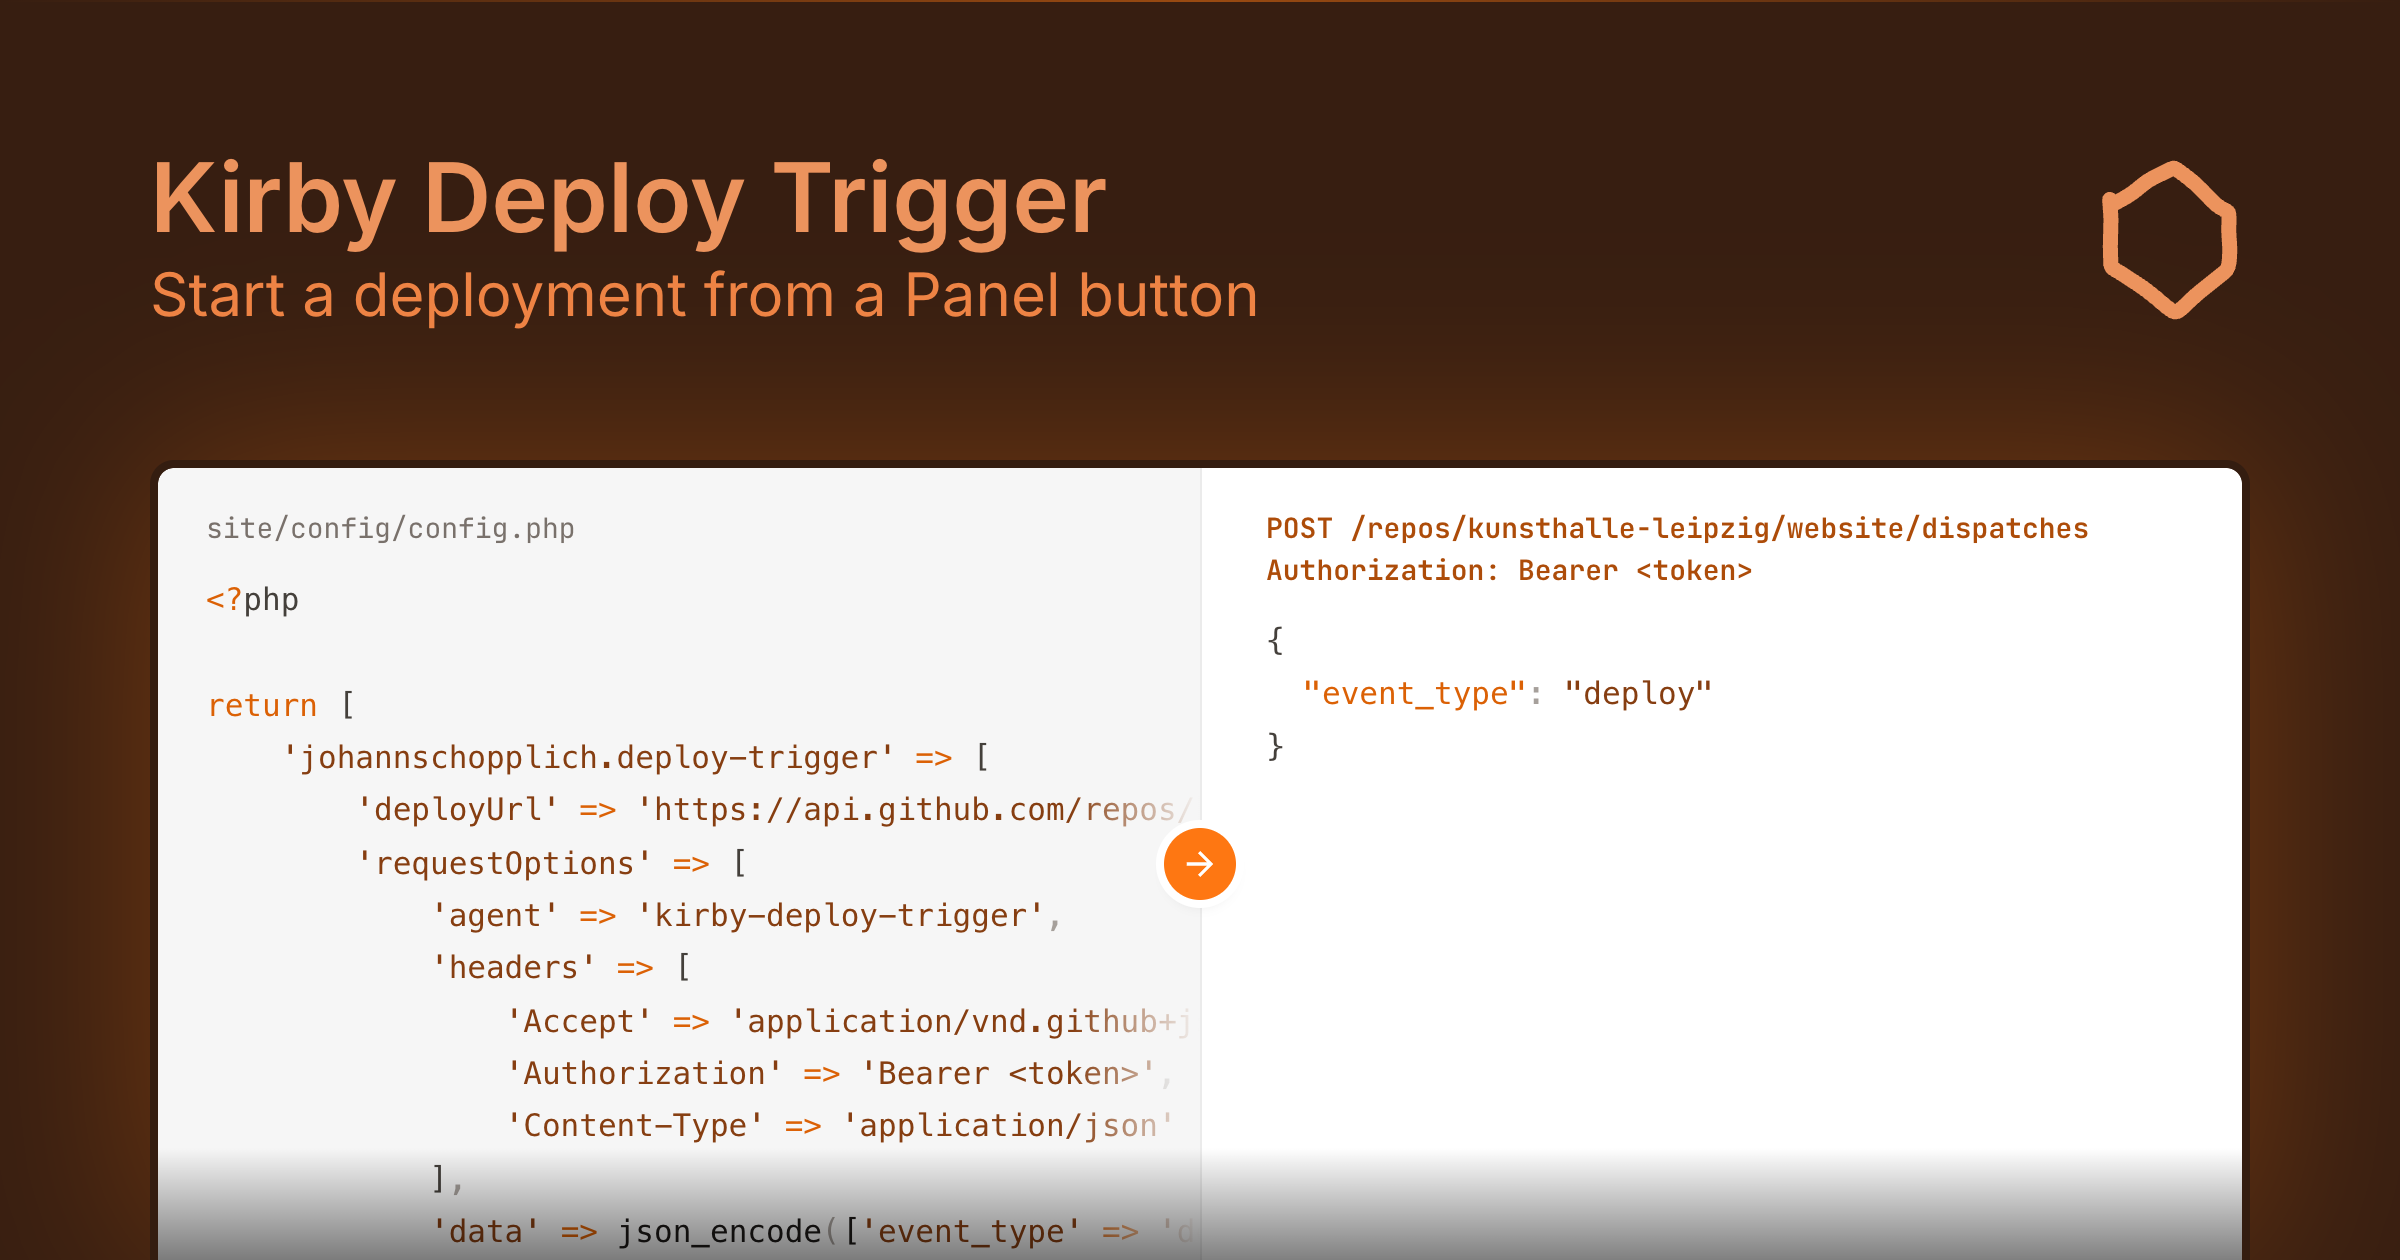
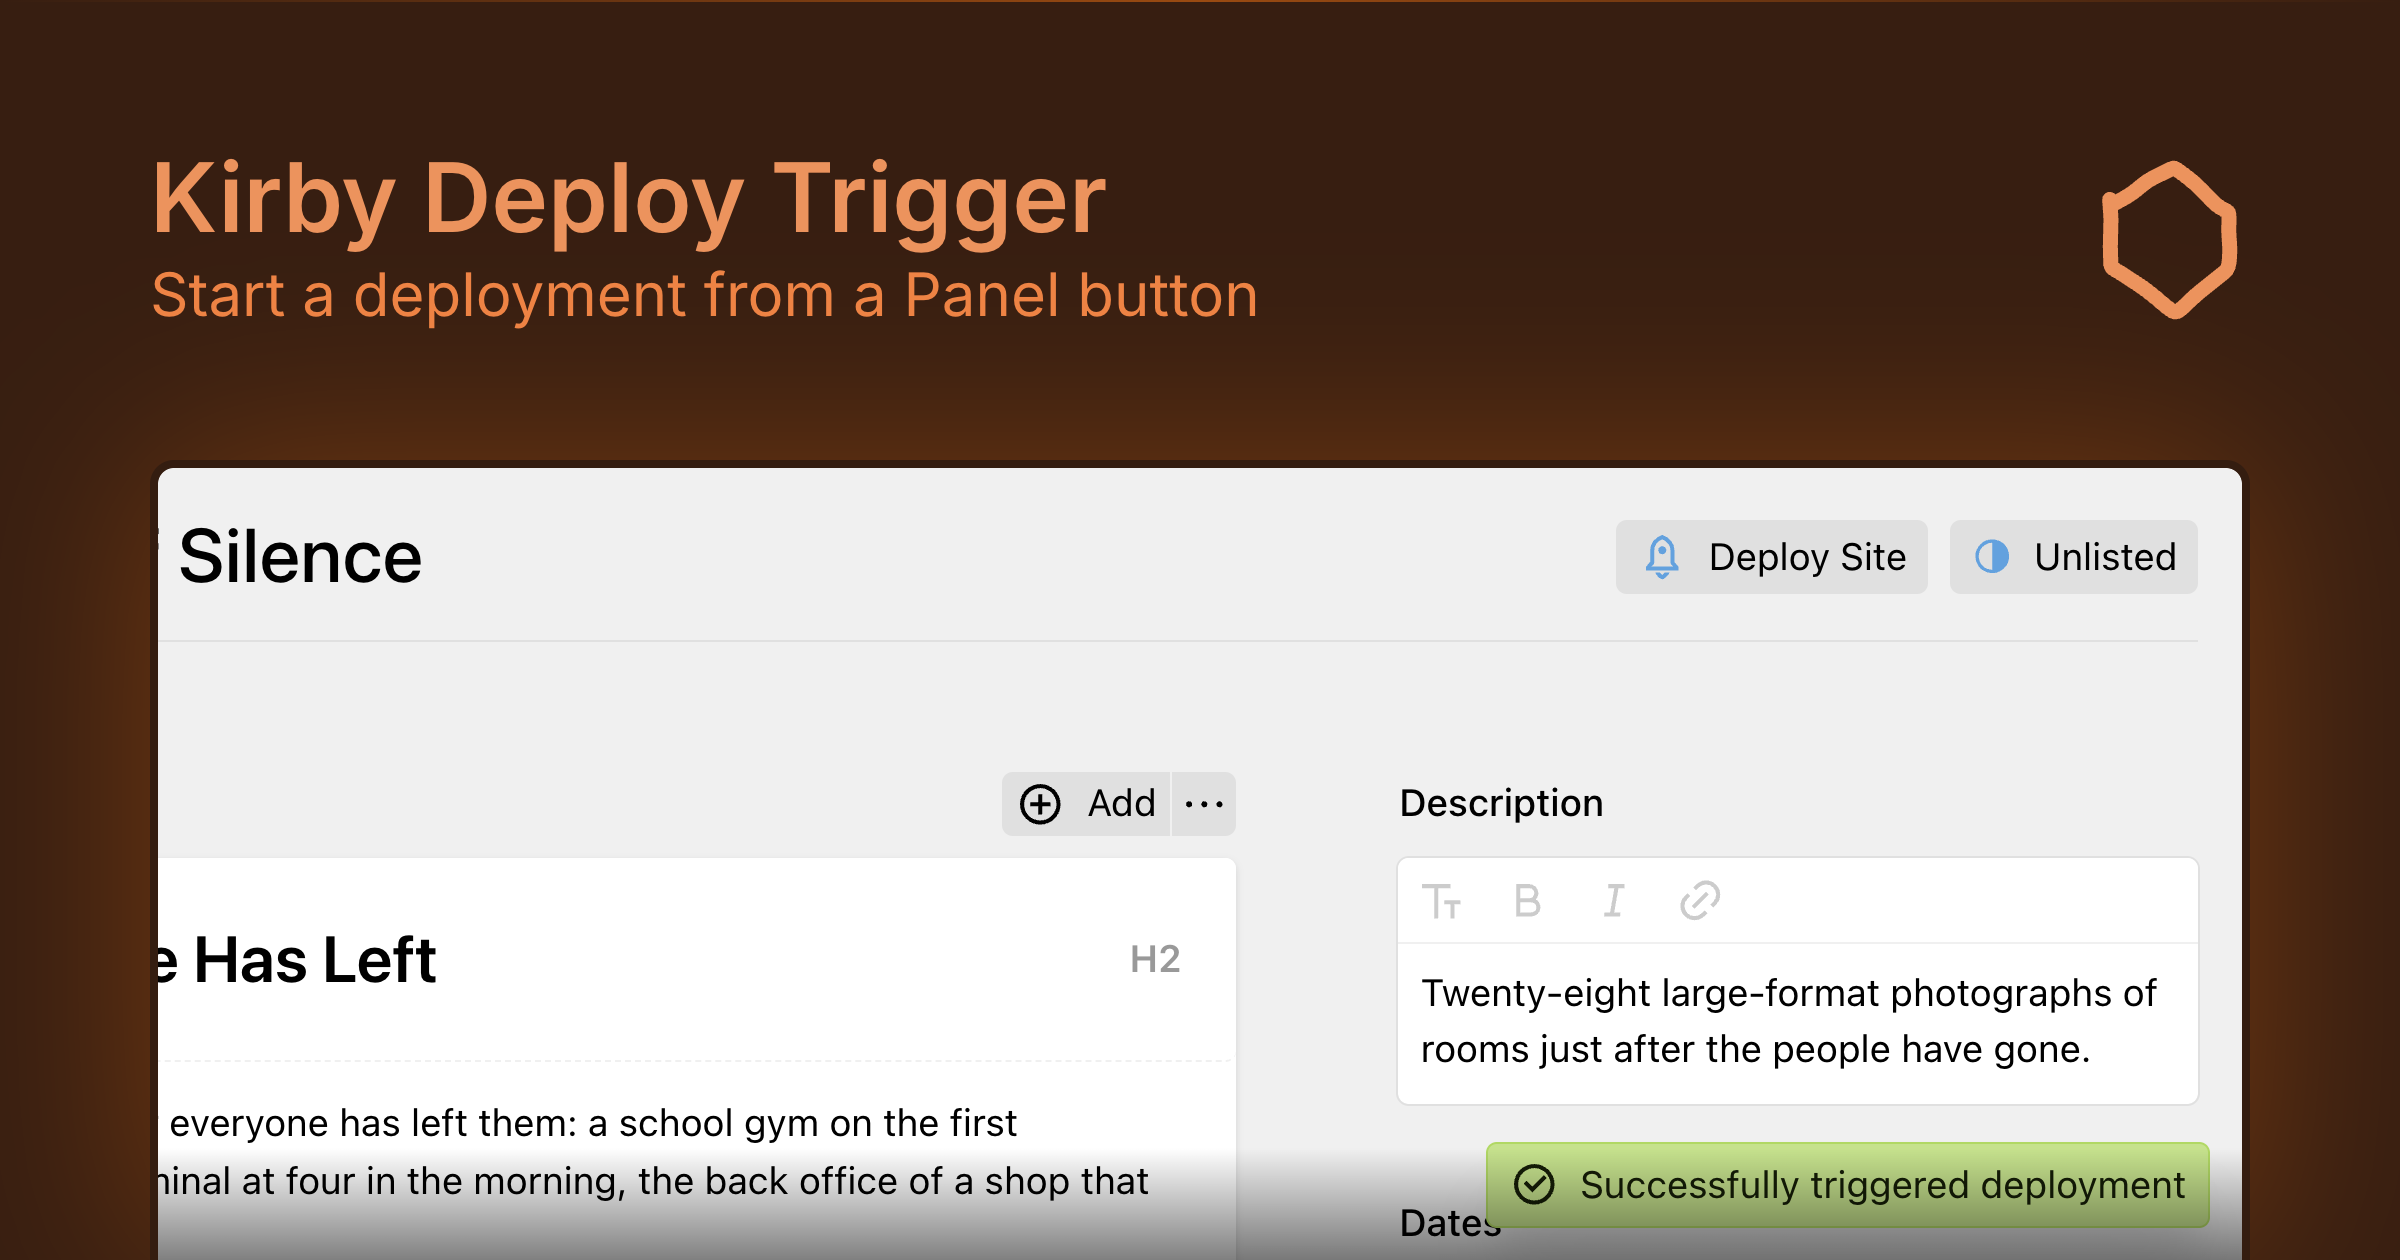
feat: add Kirby Deploy Trigger to the Exhibition with its own Scene

diff --git a/layers/kirby-panel/runtime/extensions.ts b/layers/kirby-panel/runtime/extensions.ts
@@ -11,6 +11,8 @@ export const extensions = {
     "content-translator-openai": `<path fill="currentColor" d="M20.562 10.188c.25-.688.313-1.376.25-2.063c-.062-.687-.312-1.375-.625-2c-.562-.937-1.375-1.687-2.312-2.125c-1-.437-2.063-.562-3.125-.312c-.5-.5-1.063-.938-1.688-1.25S11.687 2 11 2a5.17 5.17 0 0 0-3 .938c-.875.624-1.5 1.5-1.813 2.5c-.75.187-1.375.5-2 .875c-.562.437-1 1-1.375 1.562c-.562.938-.75 2-.625 3.063a5.44 5.44 0 0 0 1.25 2.874a4.7 4.7 0 0 0-.25 2.063c.063.688.313 1.375.625 2c.563.938 1.375 1.688 2.313 2.125c1 .438 2.062.563 3.125.313c.5.5 1.062.937 1.687 1.25S12.312 22 13 22a5.17 5.17 0 0 0 3-.937c.875-.625 1.5-1.5 1.812-2.5a4.54 4.54 0 0 0 1.938-.875c.562-.438 1.062-.938 1.375-1.563c.562-.937.75-2 .625-3.062c-.125-1.063-.5-2.063-1.188-2.876m-7.5 10.5c-1 0-1.75-.313-2.437-.875c0 0 .062-.063.125-.063l4-2.312a.5.5 0 0 0 .25-.25a.57.57 0 0 0 .062-.313V11.25l1.688 1v4.625a3.685 3.685 0 0 1-3.688 3.813M5 17.25c-.438-.75-.625-1.625-.438-2.5c0 0 .063.063.125.063l4 2.312a.56.56 0 0 0 .313.063c.125 0 .25 0 .312-.063l4.875-2.812v1.937l-4.062 2.375A3.7 3.7 0 0 1 7.312 19c-1-.25-1.812-.875-2.312-1.75M3.937 8.563a3.8 3.8 0 0 1 1.938-1.626v4.751c0 .124 0 .25.062.312a.5.5 0 0 0 .25.25l4.875 2.813l-1.687 1l-4-2.313a3.7 3.7 0 0 1-1.75-2.25c-.25-.937-.188-2.062.312-2.937M17.75 11.75l-4.875-2.812l1.687-1l4 2.312c.625.375 1.125.875 1.438 1.5s.5 1.313.437 2.063a3.7 3.7 0 0 1-.75 1.937c-.437.563-1 1-1.687 1.25v-4.75c0-.125 0-.25-.063-.312c0 0-.062-.126-.187-.188m1.687-2.5s-.062-.062-.125-.062l-4-2.313c-.125-.062-.187-.062-.312-.062s-.25 0-.313.062L9.812 9.688V7.75l4.063-2.375c.625-.375 1.312-.5 2.062-.5c.688 0 1.375.25 2 .688c.563.437 1.063 1 1.313 1.625s.312 1.375.187 2.062m-10.5 3.5l-1.687-1V7.063c0-.688.187-1.438.562-2C8.187 4.438 8.75 4 9.375 3.688a3.37 3.37 0 0 1 2.062-.313c.688.063 1.375.375 1.938.813c0 0-.063.062-.125.062l-4 2.313a.5.5 0 0 0-.25.25c-.063.125-.063.187-.063.312zm.875-2L12 9.5l2.187 1.25v2.5L12 14.5l-2.188-1.25z"/>`,
     // i-ri:seo-line
     "seo-audit-analyze": `<path fill="currentColor" d="M8 3a7 7 0 0 0 0 14h1.07a7.06 7.06 0 0 1 0-2H8A5 5 0 0 1 8 5h8a5 5 0 0 1 4.9 6a7.021 7.021 0 0 1 1.426 2A7 7 0 0 0 16 3zm8 10a3 3 0 1 0 0 6a3 3 0 0 0 0-6m-5 3a5 5 0 1 1 9.172 2.757l2.535 2.536l-1.414 1.414l-2.536-2.535A5 5 0 0 1 11 16"/>`,
+    // i-ri:rocket-2-line
+    "deploy-trigger-rocket": `<path fill="currentColor" d="M15.502 20.005A6.52 6.52 0 0 1 12 23.507a6.52 6.52 0 0 1-3.502-3.502h2.26c.326.488.747.912 1.242 1.243c.495-.33.916-.755 1.242-1.243zM18 14.81l2 2.268v1.927H4v-1.927l2-2.268V9.005c0-3.483 2.504-6.447 6-7.545c3.496 1.098 6 4.062 6 7.545zm-.73 2.195L16 15.565v-6.56c0-2.318-1.57-4.43-4-5.421c-2.43.99-4 3.103-4 5.42v6.561l-1.27 1.44zm-5.27-6a2 2 0 1 1 0-4a2 2 0 0 1 0 4"/>`,
     // i-ri:restart-line
     "live-preview-restart": `<path fill="currentColor" d="M18.537 19.567A9.961 9.961 0 0 1 12 22C6.477 22 2 17.523 2 12S6.477 2 12 2s10 4.477 10 10c0 2.136-.67 4.116-1.81 5.74L17 12h3a8 8 0 1 0-2.46 5.772z"/>`,
   },

diff --git a/layers/kirby-panel/modules/kirby-panel/index.ts b/layers/kirby-panel/modules/kirby-panel/index.ts
@@ -36,10 +36,10 @@ export default defineNuxtModule({
 
     nuxt.options.alias["#kirby-panel"] = srcDir;
     nuxt.options.alias["#panel-mock"] = resolve("../../runtime");
-    for (const { id, dir, barrel } of plugins) {
+    for (const { id, barrel, css } of plugins) {
       nuxt.options.alias[`#kirby-plugin/${id}`] = barrel;
       // The prerender inlines only CSS a `.vue` file or the entry imports.
-      nuxt.options.css.push(`${dir}/index.css`);
+      if (css) nuxt.options.css.push(css);
     }
 
     addVitePlugin(kirbyAliasPlugin(srcDir));
@@ -113,19 +113,23 @@ async function resolvePlugins(
         : resolve(`../../plugins/${id}`);
       const barrel = `${dir}/src/panel/site.ts`;
 
-      for (const file of [barrel, `${dir}/index.css`]) {
-        try {
-          await access(file);
-        } catch {
-          throw new Error(
-            isLocal
-              ? `\`${file}\` is missing. Check out a branch of kirby-${id} that has it, or drop "${id}" from \`${LOCAL_PLUGINS_ENV}\`.`
-              : `\`${file}\` is missing. Run \`pnpm kirby-panel:fetch\`, or pin a commit of kirby-${id} in \`plugins.json\` that has it.`,
-          );
-        }
+      try {
+        await access(barrel);
+      } catch {
+        throw new Error(
+          isLocal
+            ? `\`${barrel}\` is missing. Check out a branch of kirby-${id} that has it, or drop "${id}" from \`${LOCAL_PLUGINS_ENV}\`.`
+            : `\`${barrel}\` is missing. Run \`pnpm kirby-panel:fetch\`, or pin a commit of kirby-${id} in \`plugins.json\` that has it.`,
+        );
       }
 
-      return { id, dir, barrel, isLocal };
+      // A plugin without styles builds no `index.css`.
+      const css = await access(`${dir}/index.css`).then(
+        () => `${dir}/index.css`,
+        () => undefined,
+      );
+
+      return { id, dir, barrel, css, isLocal };
     }),
   );
 }

diff --git a/app/utils/social-card-code.ts b/app/utils/social-card-code.ts
@@ -2,7 +2,6 @@ import type { ExhibitionProductId } from "#shared/exhibition";
 import type { ProductId } from "#shared/products";
 
 const exhibitionRequest = `GET ${EXHIBITION_URL.pathname}`;
-const exhibitionDispatchPath = "/repos/kunsthalle-leipzig/website/dispatches";
 
 export interface SocialCardSnippet {
   label: string;
@@ -66,33 +65,6 @@ echo \\Kirby\\Data\\Json::encode([
 <meta content="${EXHIBITION_PAGE.title}" name="twitter:title">
 <meta content="${EXHIBITION_PAGE.description}" name="twitter:description">
 <link href="${EXHIBITION_URL.origin}/dist/assets/main-DiwrgTda.css" rel="stylesheet"><script src="${EXHIBITION_URL.origin}/dist/assets/main-BmA3xV9q.js" type="module"></script>`,
-    },
-  },
-  "deploy-trigger": {
-    source: {
-      label: "site/config/config.php",
-      language: "php",
-      code: `<?php
-
-return [
-    'johannschopplich.deploy-trigger' => [
-        'deployUrl' => 'https://api.github.com${exhibitionDispatchPath}',
-        'requestOptions' => [
-            'agent' => 'kirby-deploy-trigger',
-            'headers' => [
-                'Accept' => 'application/vnd.github+json',
-                'Authorization' => 'Bearer <token>',
-                'Content-Type' => 'application/json'
-            ],
-            'data' => json_encode(['event_type' => 'deploy'])
-        ]
-    ]
-];`,
-    },
-    result: {
-      label: `POST ${exhibitionDispatchPath}\nAuthorization: Bearer <token>`,
-      language: "json",
-      code: JSON.stringify({ event_type: "deploy" }, undefined, 2),
     },
   },
 };

diff --git a/app/components/Product/DeployTrigger/Scene.vue b/app/components/Product/DeployTrigger/Scene.vue
@@ -1,0 +1,42 @@
+<script setup lang="ts">
+import { translate } from "#panel-mock/translate";
+
+const DEPLOY_DURATION = 1500;
+
+const SUCCESS_NOTIFICATION: PanelNotificationProps = {
+  text: translate("johannschopplich.deploy-trigger.success"),
+};
+
+const isInert = inject(panelMockInertKey, false);
+const reducedMotion = usePreferredReducedMotion();
+const page = useExhibitionPage();
+const { notification, open, close } = usePanelNotification();
+const { isPending, start } = useTimeoutFn(notifySuccess, DEPLOY_DURATION, {
+  immediate: false,
+});
+
+const viewButton = computed<PanelViewButton>(() => ({
+  plugin: "deploy-trigger",
+  isDeploying: isPending.value,
+  click: deploy,
+}));
+
+function deploy() {
+  if (reducedMotion.value === "reduce") notifySuccess();
+  else start();
+}
+
+function notifySuccess() {
+  open(SUCCESS_NOTIFICATION);
+}
+</script>
+
+<template>
+  <ExhibitionScene
+    :page="page"
+    :view-button="viewButton"
+    :notification="isInert ? SUCCESS_NOTIFICATION : notification"
+    :crop="isInert ? undefined : 'hero'"
+    @close-notification="close"
+  />
+</template>

diff --git a/layers/kirby-panel/runtime/translate.ts b/layers/kirby-panel/runtime/translate.ts
@@ -1,6 +1,7 @@
 import string from "#kirby-panel/helpers/string";
 import { translations as contentTranslatorTranslations } from "#kirby-plugin/content-translator";
 import { translations as copilotTranslations } from "#kirby-plugin/copilot";
+import { translations as deployTriggerTranslations } from "#kirby-plugin/deploy-trigger";
 import { translations as seoAuditTranslations } from "#kirby-plugin/seo-audit";
 import { translations as serpPreviewTranslations } from "#kirby-plugin/serp-preview";
 import kirbyTranslations from "../kirby/i18n/translations/en.json";
@@ -9,6 +10,7 @@ const translations: Record<string, string> = {
   ...kirbyTranslations,
   ...contentTranslatorTranslations,
   ...copilotTranslations,
+  ...deployTriggerTranslations,
   ...seoAuditTranslations,
   ...serpPreviewTranslations,
 };

diff --git a/layers/kirby-panel/app/types/kirby.ts b/layers/kirby-panel/app/types/kirby.ts
@@ -1,6 +1,7 @@
 import type {
   PanelContentTranslatorDropdownButtonProps,
   PanelCopilotButtonProps,
+  PanelDeployTriggerButtonProps,
   PanelSeoAuditButtonProps,
 } from "./plugins";
 
@@ -38,7 +39,8 @@ export type PanelPluginViewButton =
   | ({
       plugin: "content-translator";
     } & PanelContentTranslatorDropdownButtonProps)
-  | ({ plugin: "seo-audit" } & PanelSeoAuditButtonProps);
+  | ({ plugin: "seo-audit" } & PanelSeoAuditButtonProps)
+  | ({ plugin: "deploy-trigger" } & PanelDeployTriggerButtonProps);
 
 // `plugin?: never` keeps Kirby's own button props off a plugin's entry.
 export type PanelViewButton =

diff --git a/app/components/SocialCard.vue b/app/components/SocialCard.vue
@@ -132,6 +132,14 @@ const isWide = computed(() => props.format === "og");
   position: static;
 }
 
+/* Anchored right, so the header's view buttons stay in the frame. */
+.social-card .panel-mock:has(.panel-deploy-trigger-button) {
+  --social-card-zoom: 1.35;
+  zoom: var(--social-card-zoom);
+  width: calc(100% * var(--social-card-zoom));
+  margin-inline-start: calc(100% - 100% * var(--social-card-zoom));
+}
+
 .social-card .k-panel:has(> .k-panel-minimap) > .panel-mock-stage {
   filter: blur(3px);
   opacity: 0.85;

diff --git a/layers/kirby-panel/app/components/global/PanelDeployTriggerButton.vue b/layers/kirby-panel/app/components/global/PanelDeployTriggerButton.vue
@@ -1,0 +1,16 @@
+<script setup lang="ts">
+import type { PanelDeployTriggerButtonProps } from "../../types/plugins";
+import { DeployTriggerButtonBody } from "#kirby-plugin/deploy-trigger";
+import { translate } from "#panel-mock/translate";
+
+defineProps<PanelDeployTriggerButtonProps>();
+</script>
+
+<template>
+  <DeployTriggerButtonBody
+    :label="translate('johannschopplich.deploy-trigger.label')"
+    :is-deploying="isDeploying"
+    class="panel-deploy-trigger-button"
+    @click="click?.()"
+  />
+</template>

diff --git a/app/utils/exhibition-scenes.ts b/app/utils/exhibition-scenes.ts
@@ -2,6 +2,7 @@ import type { Component } from "vue";
 import type { ExhibitionProductId } from "#shared/exhibition";
 import {
   ProductCopilotScene,
+  ProductDeployTriggerScene,
   ProductLivePreviewScene,
   ProductMinimapScene,
   ProductSeoAuditScene,
@@ -16,4 +17,5 @@ export const EXHIBITION_SCENES: Record<ExhibitionProductId, Component> = {
   "serp-preview": ProductSerpPreviewScene,
   minimap: ProductMinimapScene,
   "live-preview": ProductLivePreviewScene,
+  "deploy-trigger": ProductDeployTriggerScene,
 };

diff --git a/layers/kirby-panel/app/components/content/PanelViewHeader.vue b/layers/kirby-panel/app/components/content/PanelViewHeader.vue
@@ -16,6 +16,7 @@ const PLUGIN_BUTTON_COMPONENTS: Record<
   copilot: "PanelCopilotButton",
   "content-translator": "PanelContentTranslatorDropdownButton",
   "seo-audit": "PanelSeoAuditButton",
+  "deploy-trigger": "PanelDeployTriggerButton",
 };
 
 const buttons = computed(() =>

diff --git a/layers/kirby-panel/app/types/plugins.ts b/layers/kirby-panel/app/types/plugins.ts
@@ -63,3 +63,10 @@ export type PanelCopilotPromptDropdown =
       value?: string[];
     };
 // #endregion
+
+// #region Deploy Trigger
+export interface PanelDeployTriggerButtonProps {
+  isDeploying?: boolean;
+  click?: () => void;
+}
+// #endregion

diff --git a/shared/exhibition.ts b/shared/exhibition.ts
@@ -7,6 +7,7 @@ export const EXHIBITION_PRODUCT_IDS = [
   "serp-preview",
   "minimap",
   "live-preview",
+  "deploy-trigger",
 ] as const satisfies readonly ProductId[];
 
 export type ExhibitionProductId = (typeof EXHIBITION_PRODUCT_IDS)[number];
